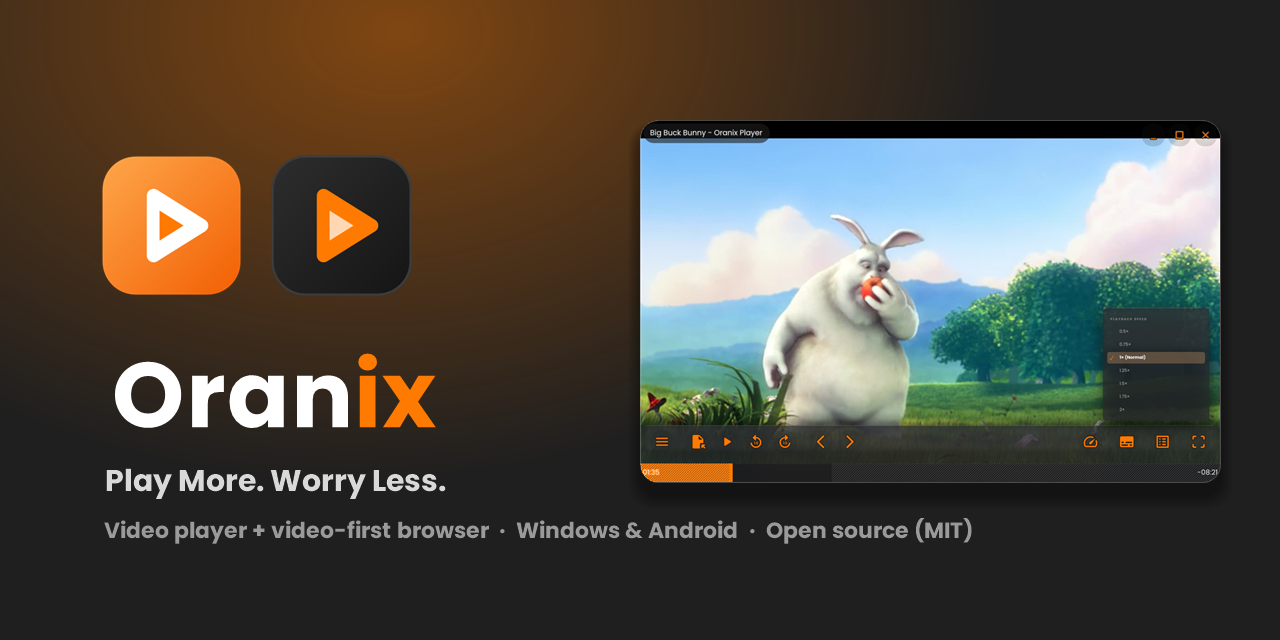
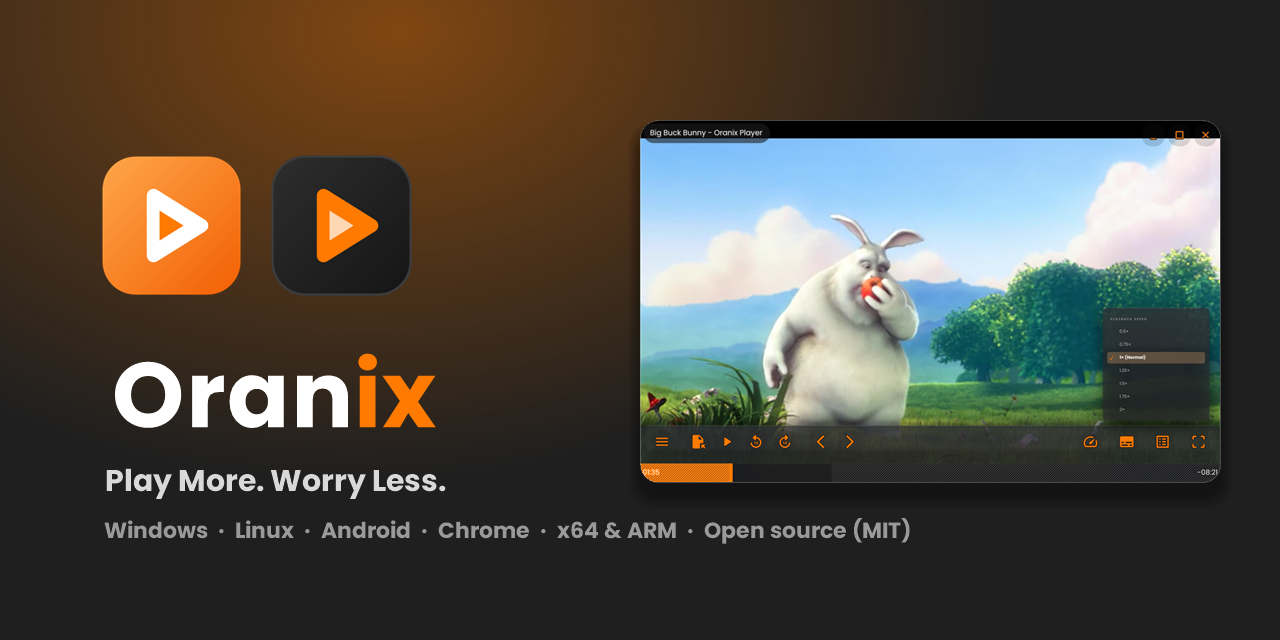
Oranix 1.1.0: Windows on ARM, Linux and Chrome
- Windows apps are AnyCPU and ship x64 + ARM64 WebView2 loaders; one installer for both
- Oranix Player for Linux: install.sh that sets up the Oranix mpv config, launcher and menu entry
- Oranix for Chrome: Manifest V3 extension with the shared player bar and the ad-host blocklist
- README, contributor guide and social card cover the new platforms

Changed region(s): [[0.0625, 0.8125, 0.7812, 0.8438]]

diff --git a/web/OranixBrowse.cs b/web/OranixBrowse.cs
@@ -234,6 +234,10 @@ class OranixBrowse : Form
     {
         // Normal browser autoplay rules (so Next/playlists keep playing); test mode always autoplays.
         var opts = new CoreWebView2EnvironmentOptions(snapPath == null ? "" : "--autoplay-policy=no-user-gesture-required");
+        // One build for x64 and Windows on ARM: load the WebView2 loader that matches this process.
+        string arch = RuntimeInformation.ProcessArchitecture == Architecture.Arm64 ? "win-arm64" : "win-x64";
+        string loaderDir = Path.Combine(AppDir, "runtimes", arch, "native");
+        if (File.Exists(Path.Combine(loaderDir, "WebView2Loader.dll"))) CoreWebView2Environment.SetLoaderDllFolderPath(loaderDir);
         env = await CoreWebView2Environment.CreateAsync(null, ProfileDir, opts);
         await web.EnsureCoreWebView2Async(env);
         var cw = web.CoreWebView2;

diff --git a/README.md b/README.md
@@ -6,12 +6,12 @@
 
 <h1 align="center">Oranix</h1>
 <p align="center"><b>Play More. Worry Less.</b><br>
-A clean, fast video player and a video-first web browser — for Windows and Android.</p>
+A clean, fast video player and a video-first web browser — for Windows (x64 &amp; ARM), Linux, Android and Chrome.</p>
 
 <p align="center">
   <a href="https://github.com/lazankit/oranix/releases/latest"><img alt="Latest release" src="https://img.shields.io/github/v/release/lazankit/oranix?color=FF7A00&label=release"></a>
   <a href="https://github.com/lazankit/oranix/releases"><img alt="Downloads" src="https://img.shields.io/github/downloads/lazankit/oranix/total?color=FF7A00"></a>
-  <img alt="Windows | Android" src="https://img.shields.io/badge/platform-Windows%20%7C%20Android-1F1F1F">
+  <img alt="Windows | Linux | Android | Chrome" src="https://img.shields.io/badge/platform-Windows%20%7C%20Linux%20%7C%20Android%20%7C%20Chrome-1F1F1F">
   <a href="LICENSE"><img alt="MIT License" src="https://img.shields.io/badge/license-MIT-1F1F1F"></a>
   <a href="https://github.com/lazankit/oranix/stargazers"><img alt="Stars" src="https://img.shields.io/github/stars/lazankit/oranix?style=flat&color=FF7A00"></a>
 </p>
@@ -31,8 +31,10 @@ A clean, fast video player and a video-first web browser — for Windows and And
 
 | | |
 |---|---|
-| **Windows** | Download **[`OranixSetup.exe`](https://github.com/lazankit/oranix/releases/latest)** → run it → open *Oranix Player* or *Oranix Web* from the Start menu. |
-| **Android** | Download **[`OranixWeb.apk`](https://github.com/lazankit/oranix/releases/latest)** on your phone → open it → allow "install unknown apps" once. |
+| **Windows** (x64 &amp; ARM64) | Download **[`OranixSetup.exe`](https://github.com/lazankit/oranix/releases/latest)** → run it → open *Oranix Player* or *Oranix Web* from the Start menu. |
+| **Linux** (any CPU) | Install mpv, download **[`oranix-player-linux.tar.gz`](https://github.com/lazankit/oranix/releases/latest)**, then `tar xzf oranix-player-linux.tar.gz && bash oranix-player/install.sh` |
+| **Android** (all phones) | Download **[`OranixWeb.apk`](https://github.com/lazankit/oranix/releases/latest)** on your phone → open it → allow "install unknown apps" once. |
+| **Chrome / Edge / Brave** (Windows, macOS, Linux, ChromeOS) | Download **[`oranix-chrome.zip`](https://github.com/lazankit/oranix/releases/latest)** → unzip → open `chrome://extensions` → turn on *Developer mode* → *Load unpacked* → pick the folder. |
 
 No account, no telemetry, no ads.
 
@@ -43,23 +45,24 @@ Oranix is two small apps with one look:
 | | **Oranix Player** | **Oranix Web** |
 |---|---|---|
 | For | Video files on your PC | Video on websites |
-| Built on | [mpv](https://mpv.io) + [uosc](https://github.com/tomasklaen/uosc), with an Oranix skin, popups and gestures | Microsoft WebView2 (Windows) / Android WebView |
-| Platforms | Windows | Windows, Android |
+| Built on | [mpv](https://mpv.io) + [uosc](https://github.com/tomasklaen/uosc), with an Oranix skin, popups and gestures | Microsoft WebView2 (Windows) / Android WebView / your browser (extension) |
+| Platforms | Windows (x64, ARM64), Linux | Windows (x64, ARM64), Android, Chrome extension |
 
 <p align="center"><img src="docs/oranix-web-start.png" width="760" alt="Oranix Web start page"></p>
 
 ## Features
 
-### Oranix Player (Windows)
+### Oranix Player (Windows, Linux)
 - **Clay + glass look** in Oranix orange and charcoal, Poppins type, its own start screen.
 - **Audio & Subtitles popup** — English listed first, one click to switch. **C** turns subtitles on/off (remembers your pick).
 - **Quality & speed popup**, **−10 s / +10 s**, previous/next episode, time remaining always visible.
 - **Touchpad gestures:** two-finger scroll on the left half = brightness, right half = volume (up to 200 %), sideways = seek.
 - **Brightness tuned for OLED** — dims mid-tones so blacks stay black.
 - Double-click the title bar to maximize, the video to go fullscreen. Remembers where you stopped.
-- **Live editing:** change anything in its `config` folder and the open player restarts at the same second with the change.
+- **Live editing (Windows):** change anything in its `config` folder and the open player restarts at the same second with the change.
+- **Linux:** the same look, popups, keys and gestures on top of your distro's mpv.
 
-### Oranix Web (Windows + Android)
+### Oranix Web (Windows, Android, Chrome extension)
 - **The Oranix player bar on any web video** (YouTube and most sites), right where the video sits on the page — or open it in the full Oranix window.
 - **Ad shield:** blocks ad and tracking networks, pop-ups, pop-unders, redirect hijacks and fake overlays; strips YouTube's ad schedule and auto-skips any ad that slips through.
 - **Smart next/previous:** finds playlists, "next episode" buttons and next-page links; Netflix-style *Up next* card.
@@ -72,8 +75,10 @@ Oranix is two small apps with one look:
 
 Download from the **[latest release](https://github.com/lazankit/oranix/releases/latest)**:
 
-- **Windows:** `OranixSetup.exe` — installs Oranix Player and Oranix Web for your user (no admin needed), adds Start menu entries and an uninstaller. Oranix Player uses mpv; if it isn't installed, Oranix Player offers to install it (`winget install shinchiro.mpv`).
-- **Android 8+:** `OranixWeb.apk` — copy to your phone and open it (allow "install unknown apps" once).
+- **Windows 10/11, x64 or ARM64:** `OranixSetup.exe` — one installer for both kinds of PC (the apps run natively on Snapdragon/Windows-on-ARM laptops). Installs Oranix Player and Oranix Web for your user (no admin needed), adds Start menu entries and an uninstaller. Oranix Player uses mpv; if it isn't installed, Oranix Player offers to install it (`winget install shinchiro.mpv`).
+- **Linux (x86_64, ARM64, …):** `oranix-player-linux.tar.gz` — Oranix Player on top of your distro's mpv. Install mpv (`sudo apt install mpv`, `dnf`, `pacman` or Flatpak), then run `bash install.sh` from the unpacked folder. Adds an app-menu entry and an `oranix-player` command; `bash uninstall.sh` removes it.
+- **Android 8+, every phone and tablet:** `OranixWeb.apk` — copy to your phone and open it (allow "install unknown apps" once).
+- **Chrome, Edge, Brave, Vivaldi, Opera** (Windows, macOS, Linux, ChromeOS): `oranix-chrome.zip` — *Oranix for Chrome* puts the Oranix player bar on web videos and blocks ad and tracker networks in your normal browser. Unzip, open `chrome://extensions`, enable **Developer mode**, click **Load unpacked** and choose the folder.
 
 ## Keys (Oranix Player)
 
@@ -96,9 +101,18 @@ Oranix-src/
 ├─ player/      Oranix Player: launcher (C#) + mpv config, scripts, fonts
 ├─ web/         Oranix Web for Windows (C#) + the shared web player (oranix-player.js) and start page
 ├─ android/     Oranix Web for Android (Java, no Gradle)
+├─ chrome/      Oranix for Chrome (Manifest V3 extension: shared player bar + blocklist)
+├─ linux/       Oranix Player for Linux (install.sh around mpv)
 ├─ installer/   Inno Setup script
-├─ build.ps1    Builds both Windows apps (+ installer with -Installer)
+├─ build.ps1    Builds both Windows apps, AnyCPU (+ installer with -Installer)
 └─ live.ps1     Pushes edits into an installed copy instantly
+```
+
+**Chrome extension** and **Linux package** — no extra tools needed:
+
+```powershell
+.\chrome\build.ps1          # -> chrome\out\oranix-chrome\ (load unpacked) + oranix-chrome.zip
+.\linux\build.ps1           # -> linux\out\oranix-player-linux.tar.gz
 ```
 
 **Windows** — needs Windows 10/11 (its built-in .NET Framework 4.8 C# compiler) and, for the installer, [Inno Setup 6](https://jrsoftware.org/isinfo.php):

diff --git a/CONTRIBUTING.md b/CONTRIBUTING.md
@@ -18,6 +18,8 @@ Thanks for helping! Oranix is small on purpose — a few plain files per app, no
 | Oranix Web start page | `web/start.html` |
 | Oranix Web window, toolbar, ad shield (Windows) | `web/OranixBrowse.cs` |
 | Oranix Web for Android | `android/src/com/oranix/web/MainActivity.java` |
+| Oranix for Chrome (manifest; the blocklist is built from `web/OranixBrowse.cs`) | `chrome/manifest.json`, `chrome/build.ps1` |
+| Oranix Player for Linux | `linux/install.sh` |
 | Installer | `installer/Oranix.iss` |
 
 ## Try your change
@@ -26,6 +28,8 @@ Thanks for helping! Oranix is small on purpose — a few plain files per app, no
 .\build.ps1 -Installer    # build both Windows apps + installer
 .\live.ps1                # or: push config/script/start-page edits into an installed copy instantly
 .\android\build.ps1       # Android APK
+.\chrome\build.ps1        # Chrome extension (.\chrome\test-extension.ps1 checks it on YouTube in headless Edge)
+.\linux\build.ps1         # Linux package
 ```
 
 Changes to `player/config`, `web/oranix-player.js` and `web/start.html` show up live in running apps after `.\live.ps1` — no rebuild needed.
